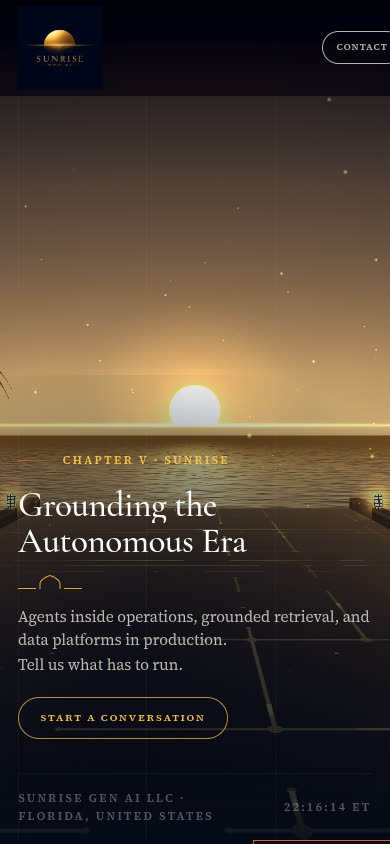
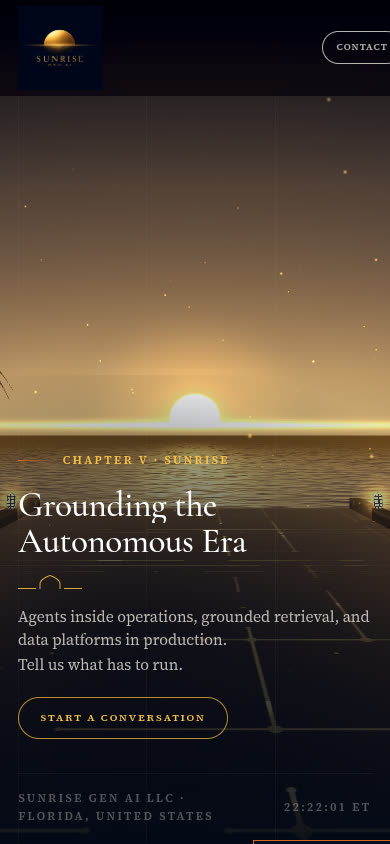
Land the sun as the wordmark's half disc with the flare through it
Lower the final sun so the horizon takes about 40% of the disc, thicken
the horizontal flare so it reads at small sizes, and refresh the poster
and review screenshots to match.

Changed region(s): [[0.0, 0.4313, 1.0, 0.5237]]

diff --git a/src/lib/palaceScene.ts b/src/lib/palaceScene.ts
@@ -290,9 +290,9 @@ const FLARE_FRAG =
   void main() {
     vec2 p = vUv;
     float h = exp(-abs(p.x) * 5.5);
-    float v = exp(-abs(p.y) * 60.0);
-    float core = exp(-length(p * vec2(1.0, 10.0)) * 6.0);
-    float a = h * v * 1.4 + core * 0.6;
+    float v = exp(-abs(p.y) * 34.0);
+    float core = exp(-length(p * vec2(1.0, 7.0)) * 6.0);
+    float a = h * v * 2.2 + core * 0.8;
     vec3 col = mix(HOT, vec3(1.0, 0.96, 0.85), core) * a * uRise;
     gl_FragColor = vec4(col, 1.0);
   }
@@ -1060,7 +1060,7 @@ export class PalaceScene {
     sun.frustumCulled = false
     this.scene.add(sun)
 
-    const flareGeo = this.track(new THREE.PlaneGeometry(380, 26))
+    const flareGeo = this.track(new THREE.PlaneGeometry(380, 40))
     const flareMat = this.track(
       new THREE.ShaderMaterial({
         vertexShader: QUAD_VERT,
@@ -1119,7 +1119,8 @@ export class PalaceScene {
 
     const horizon = this.tmpCam.y
     u.uHorizon.value = horizon
-    this.sun.position.set(0, horizon - 20 + 28 * rise, 380)
+    // Ends about 40% below the horizon line: the wordmark's half disc with the flare through it.
+    this.sun.position.set(0, horizon - 20 + 23.5 * rise, 380)
     u.uSunPos.value.copy(this.sun.position)
     this.flare.position.set(0, horizon + 0.25, 379)
     this.flare.scale.set(0.35 + 0.65 * rise, 0.6 + 0.4 * rise, 1)
